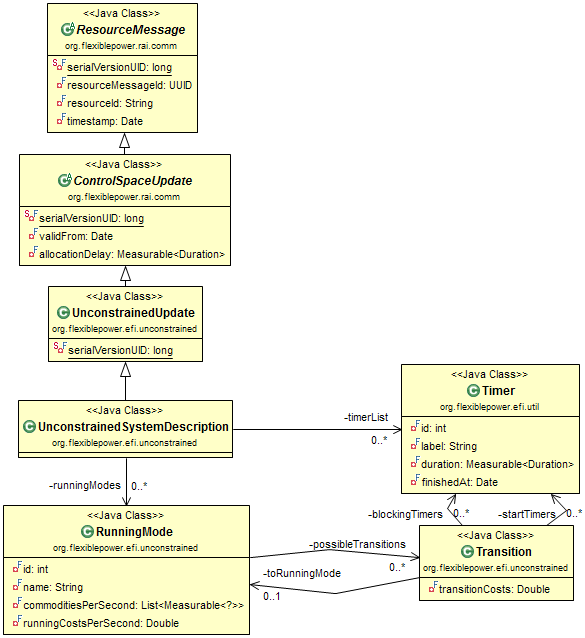
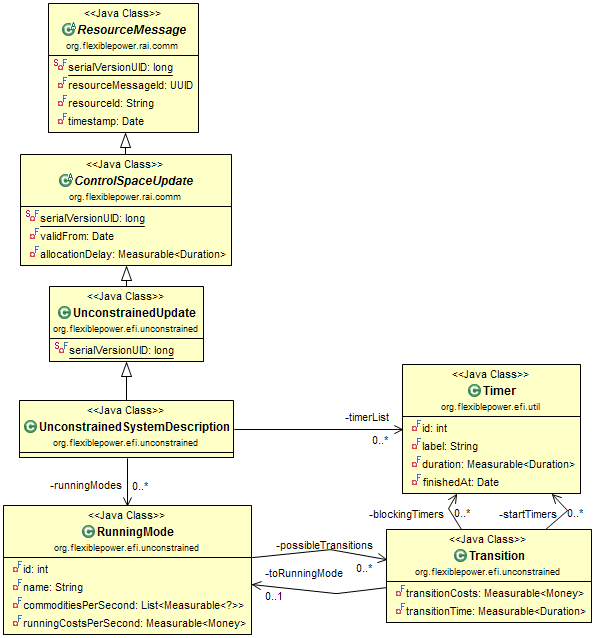
Added transitionTime attribute to Transition class. Changed the type fof transitionCosts from Double to Measurable<Money>.

diff --git a/flexiblepower.api.efi/src/org/flexiblepower/efi/unconstrained/Transition.java b/flexiblepower.api.efi/src/org/flexiblepower/efi/unconstrained/Transition.java
@@ -2,6 +2,10 @@ package org.flexiblepower.efi.unconstrained;
 
 import java.util.Set;
 
+import javax.measure.Measurable;
+import javax.measure.quantity.Duration;
+import javax.measure.quantity.Money;
+
 import org.flexiblepower.efi.util.Timer;
 
 public class Transition {
@@ -14,16 +18,21 @@ public class Transition {
     private final Set<Timer> blockingTimers;
 
     // Optional: The costs of a transition
-    private final Double transitionCosts;
+    private final Measurable<Money> transitionCosts;
+
+    /** The time duration it takes for a transition */
+    private final Measurable<Duration> transitionTime;
 
     public Transition(RunningMode toRunningMode,
                       Set<Timer> startTimers,
                       Set<Timer> blockingTimers,
-                      Double transitionCosts) {
+                      Measurable<Money> transitionCosts,
+                      Measurable<Duration> transitionTime) {
         super();
         this.toRunningMode = toRunningMode;
         this.startTimers = startTimers;
         this.blockingTimers = blockingTimers;
         this.transitionCosts = transitionCosts;
+        this.transitionTime = transitionTime;
     }
 }

diff --git a/flexiblepower.api.efi/src/org/flexiblepower/efi/unconstrained/RunningMode.java b/flexiblepower.api.efi/src/org/flexiblepower/efi/unconstrained/RunningMode.java
@@ -3,6 +3,7 @@ package org.flexiblepower.efi.unconstrained;
 import java.util.List;
 
 import javax.measure.Measurable;
+import javax.measure.quantity.Money;
 
 public class RunningMode {
     private final int id;
@@ -13,11 +14,11 @@ public class RunningMode {
     // TODO
     private final List<Measurable<?>> commoditiesPerSecond;
 
-    private final Double runningCostsPerSecond;
+    private final Measurable<Money> runningCostsPerSecond;
 
     private List<Transition> possibleTransitions;
 
-    public RunningMode(int id, String name, List<Measurable<?>> commodities, Double runningCostsPerSecond) {
+    public RunningMode(int id, String name, List<Measurable<?>> commodities, Measurable<Money> runningCostsPerSecond) {
         this.id = id;
         this.name = name;
         commoditiesPerSecond = commodities;
